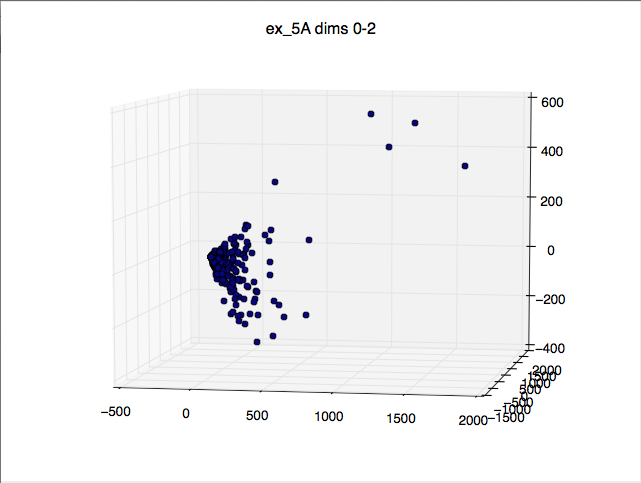
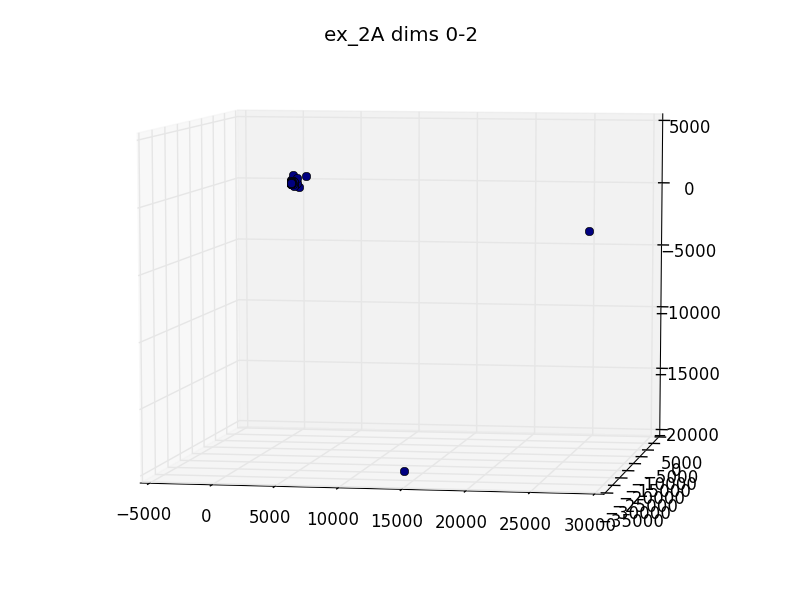
Updated all the example two images and made some bug fixes.

diff --git a/examples/example_two_centers_of_mass/action_centers_of_mass.py b/examples/example_two_centers_of_mass/action_centers_of_mass.py
@@ -1,23 +1,23 @@
-# **************************************************
-# Tutorial Five: Centers of Mass and Random Sampling
-# **************************************************
+# *******************************************************
+# ACTION Example Two: Centers of Mass and Random Sampling
+# *******************************************************
 
 
 from action import *
-import bregman.segment as bseg
+import action.segment as aseg
 import numpy as np
 
-# 5A: plot random sampling of points from one film
-def ex_5A(title):
+# 2A: plot random sampling of points from one film
+def ex_2A(title):
 	
 	ad = actiondata.ActionData()
-	av = actiondata.ActionView(None)
+	av = actiondata.ActionView()
 	oflow = opticalflow.OpticalFlow(title)
 	
 	length = oflow.determine_movie_length() # in seconds
 	length_in_frames = length * 4
 	
-	full_segment = bseg.Segment(0, duration=length)
+	full_segment = aseg.Segment(0, duration=length)
 	oflow_full_film = oflow.opticalflow_for_segment(full_segment)
 	
 	decomposed = ad.calculate_pca_and_fit(oflow_full_film, locut=100.0)
@@ -25,19 +25,20 @@ def ex_5A(title):
 	index_array = np.arange(decomposed.shape[0])
 	np.random.shuffle(index_array)
 	
-	# try removing the sorting step
+	# take the 10th root to better visualize the data
+	decomposed = np.power(decomposed, 0.1)
 	random_samples = decomposed[ np.sort(index_array[:500]) ]
 	
-	av.plot_clusters(random_samples, np.zeros(500), ttl='ex_5A dims 0-2')
-	av.plot_clusters(random_samples[:,1:], np.zeros(500), ttl='ex_5A dims 1-3')
+	av.plot_clusters(random_samples, np.zeros(500), ttl='ex_2A dims 0-2')
+	av.plot_clusters(random_samples[:,1:], np.zeros(500), ttl='ex_2A dims 1-3')
 
 
-# 5B: plot random sampling of points from multiple films
-def ex_5B(titles):
+# 2B: plot random sampling of points from multiple films
+def ex_2B(titles):
 	
 	ad = actiondata.ActionData()
-	av = actiondata.ActionView(None)
-	combo_oflow = np.zeros(128, dtype='float32')
+	av = actiondata.ActionView()
+	combo_oflow = np.zeros(512, dtype='float32')
 	
 	for title in titles:
 		
@@ -46,12 +47,10 @@ def ex_5B(titles):
 		length = oflow.determine_movie_length() # in seconds
 		length_in_frames = length * 4
 	
-		full_segment = bseg.Segment(0, duration=length)
-		oflow_full_film = oflow.opticalflow_for_segment(full_segment)
-
-		index_array = np.arange(oflow_full_film.shape[0])
-		np.random.shuffle(index_array)
-		random_samples = oflow_full_film[ np.sort(index_array[:500]) ]
+		full_segment = aseg.Segment(0, duration=length)
+		oflow_full_film_strided = oflow.opticalflow_for_segment_with_stride(full_segment)
+		
+		random_samples, order = ad.sample_n_frames(oflow_full_film_strided, 500)
 		print combo_oflow.shape
 		print random_samples.shape
 		combo_oflow = np.append(np.atleast_2d(combo_oflow), random_samples, axis=0)
@@ -59,14 +58,15 @@ def ex_5B(titles):
 	# get rid of the empty first row
 	combo_oflow = combo_oflow[1:,:]
 
-	decomposed = ad.calculate_pca_and_fit(combo_oflow, locut=10.0)
+	decomposed = ad.calculate_pca_and_fit(combo_oflow, locut=100.0)
+	decomposed = np.power(decomposed, 0.1)
 	# 500 labels per title
 	labels = np.array([i/500 for i in range(500 * len(titles))])
-	av.plot_clusters(decomposed, labels, ttl='ex_5B dims 0-2')
-	av.plot_clusters(decomposed[:,1:], labels, ttl='ex_5B dims 1-3')
+	av.plot_clusters(decomposed, labels, ttl='ex_2B dims 0-2')
+	av.plot_clusters(decomposed[:,1:], labels, ttl='ex_2B dims 1-3')
 
-# 5C: plot center of mass of one film
-def ex_5C(title):
+# 2C: plot center of mass of one film
+def ex_2C(title):
 	
 	av = actiondata.ActionView(None)
 	oflow = opticalflow.OpticalFlow(title)
@@ -74,19 +74,19 @@ def ex_5C(title):
 	length = oflow.determine_movie_length() # in seconds
 	length_in_frames = length * 4
 	
-	full_segment = bseg.Segment(0, duration=length)
-	oflow_full_film = oflow.opticalflow_for_segment(full_segment)
+	full_segment = aseg.Segment(0, duration=length)
+	oflow_full_film = oflow.opticalflow_for_segment_with_stride(full_segment)
 
-	center_of_mass = np.mean(oflow_full_film, axis=0)
+	center_of_mass = np.mean(np.power(oflow_full_film, 0.1), axis=0)
 	
-	av.plot_clusters(np.atleast_2d(center_of_mass), np.array([0]), ttl='ex_5A')
+	av.plot_clusters(np.atleast_2d(center_of_mass), np.array([0]), ttl='ex_2C')
 	
 
-# 5D: plot centers of mass of multiple films
-def ex_5D(titles):
+# 2D: plot centers of mass of multiple films
+def ex_2D(titles):
 	
 	av = actiondata.ActionView(None)
-	combo_oflow = np.zeros(128, dtype='float32')
+	combo_oflow = np.zeros(512, dtype='float32')
 	
 	for title in titles:
 		oflow = opticalflow.OpticalFlow(title)
@@ -94,10 +94,10 @@ def ex_5D(titles):
 		length = oflow.determine_movie_length() # in seconds
 		length_in_frames = length * 4
 		
-		full_segment = bseg.Segment(0, duration=length)
-		oflow_full_film = oflow.opticalflow_for_segment(full_segment)
+		full_segment = aseg.Segment(0, duration=length)
+		oflow_full_film = oflow.opticalflow_for_segment_with_stride(full_segment)
 				
-		oflow_COM = np.mean(oflow_full_film, axis=0)
+		oflow_COM = np.mean(np.power(oflow_full_film, 0.1), axis=0)
 		print combo_oflow.shape
 		print oflow_COM.shape
 		combo_oflow = np.append(np.atleast_2d(combo_oflow), np.atleast_2d(oflow_COM), axis=0)
@@ -105,17 +105,17 @@ def ex_5D(titles):
 	combo_oflow = combo_oflow[1:,:] # get rid of row of 0's
 	
 	# plot once
-	av.plot_clusters(np.atleast_2d(combo_oflow)[:,1:], np.array([i for i in range(len(titles))]), ttl='ex_5D: multiple Hitchcock films, centroids')
+	av.plot_clusters(np.atleast_2d(combo_oflow)[:,1:], np.array([i for i in range(len(titles))]), ttl='ex_2D: multiple Hitchcock films, centroids')
 
 
 if __name__ == "__main__":
 	title = 'North_by_Northwest'
-	titles = ['North_by_Northwest', 'Psycho', 'Rear_Window', 'Vertigo']
+	titles = ['North_by_Northwest', 'Psycho', 'Rope', 'Vertigo']
 	
- 	F5A = ex_5A(title)
- 	F5B = ex_5B(titles)
-	F5C = ex_5C(title)
-	F5D = ex_5D(titles)
+ 	F2A = ex_2A(title)
+ 	F2B = ex_2B(titles)
+	F2C = ex_2C(title)
+	F2D = ex_2D(titles)
 	
 	try:
 		choice = str(input('Press enter to exit visualization...'))

diff --git a/action/spdocs/example_two_centers_of_mass.rst b/action/spdocs/example_two_centers_of_mass.rst
@@ -5,7 +5,7 @@ Example Two: Centers of Mass and Random Sampling
 Abstract
 ========
 
-This example demonstrates the plotting of points and centers of masses of points from multiple films. A set number of points are randomly sampled from each example film. In this tutorial, we will use optical flow histogram data.
+This example demonstrates the plotting of points and centers of masses of points from multiple films. A set number of points are randomly sampled from each example film. In this tutorial, we will use phase correlation data.
 
 Prerequisites
 =============
@@ -19,21 +19,21 @@ Randomly sampled points from a film
 Get the data
 ------------
 
-These are the usual includes for working with ACTION data. For this example, we will use optical flow data. There is only one way to access optical flow data (no gridding choices).
+These are the usual includes for working with ACTION data. For this example, we will use optical flow data. There is only one way to access optical flow data (no gridding choices). Also recall that the optical flow class collects data at the full frame rate, so we will want to extract "strided" data.
 
 .. code-block:: python
 
 	from action import *
-	import bregman.segment as bseg
+	import action.segment as aseg
 	import numpy as np
 
-	oflow = opticalflow24.OpticalFlow24('North_by_Northwest')
+	oflow = opticalflow.OpticalFlow('North_by_Northwest')
 
 	length = oflow.determine_movie_length() # in seconds
 	length_in_frames = length * 4
 
-	full_segment = bseg.Segment(0, duration=length)
-	oflow_full_film = oflow.opticalflow_for_segment(full_segment)
+	full_segment = aseg.Segment(0, duration=length)
+	oflow_full_film = oflow.opticalflow_for_segment_with_stride(full_segment) # default stride is 6 frames
 	print oflow_full_film.shape == (length_in_frames, 512) # should be True
 
 Perform PCA and cluster
@@ -54,6 +54,12 @@ Now we randomly sample 500 points from the entire film's data set. We use Numpy'
 	np.random.shuffle(index_array)
 	random_samples = decomposed[ np.sort(index_array[:500]) ]
 	
+The following is a wrapper function in ``actiondata'' that will do the same thing:
+.. code-block:: python
+
+	random_samples_2, ordering= sample_n_frames(decomposed, n=500, sort_flag=True)
+	random_samples.shape == random_samples_2.shape # should be True
+	
 Plot the clusters
 -----------------
 
@@ -61,9 +67,9 @@ Finally, we plot the clusters to visualize a representative sample of the film.
 
 .. code-block:: python
 
-	av = actiondata.ActionView(None)
-	av.plot_clusters(random_samples, np.zeros(500), ttl='ex_5A')
-	av.plot_clusters(random_samples[:, np.zeros(500), ttl='ex_5A')
+	av = actiondata.ActionView()
+	av.plot_clusters(random_samples, np.zeros(500), ttl='ex_2A dims 0-2')
+	av.plot_clusters(random_samples[:,1:], np.zeros(500), ttl='ex_2A dims 1-3')
 
 Here's the output. The plot of the lowest three dimensions is rotated to show a more interesting view. The graph of the segments suggested by hierarchical clustering is not very good when viewing a whole film. However, you can zoom into the image using the interactive controls in the viewer when you run this code and explore the data close up.
 
@@ -91,9 +97,9 @@ When dealing with multiple films, we iterate and concatenate the resulting 500 p
 		length_in_frames = length * 4
 
 		full_segment = bseg.Segment(0, duration=length)
-		oflow_full_film = oflow.opticalflow_for_segment_with_stride(full_segment, 6)
+		oflow_full_film = oflow.opticalflow_for_segment_with_stride(full_segment)
 
-		random_samples = ad.sample_n_frames(oflow_full_film, num_samples_per_film)[0]
+		random_samples, ordering = ad.sample_n_frames(oflow_full_film, num_samples_per_film)
 	
 		combo_oflow = np.append(np.atleast_2d(combo_oflow), np.atleast_2d(random_samples), axis=0)
 
@@ -122,17 +128,17 @@ In a similar manner, the centers of mass of each movie's points can be graphed i
 
 .. code-block:: python
 
-	av = actiondata.ActionView(None)
-	combo_oflow = np.array(np.zeros(512), dtype='int32')
+	av = actiondata.ActionView()
+	combo_oflow = np.array(np.zeros(512), dtype='float32')
 	
 	for title in titles:
-		oflow = opticalflow24.OpticalFlow24(title)
+		oflow = opticalflow.OpticalFlow(title)
 		
 		length = oflow.determine_movie_length() # in seconds
 		length_in_frames = length * 4
 		
-		full_segment = bseg.Segment(0, duration=length)
-		oflow_full_film = oflow.opticalflow_for_segment_with_stride(full_segment, 6)
+		full_segment = aseg.Segment(0, duration=length)
+		oflow_full_film = oflow.opticalflow_for_segment_with_stride(full_segment)
 				
 		oflow_COM = np.mean(oflow_full_film, axis=0)
 		combo_oflow = np.append(np.atleast_2d(combo_oflow), np.atleast_2d(oflow_COM), axis=0)
@@ -141,7 +147,7 @@ In a similar manner, the centers of mass of each movie's points can be graphed i
 	combo_oflow = combo_oflow[1:,:]
 	
 	# plot once
-	av.plot_clusters(np.atleast_2d(combo_oflow)[:,1:], np.array([i for i in range(len(titles))]), ttl='ex_5D')
+	av.plot_clusters(np.atleast_2d(combo_oflow)[:,1:], np.array([i for i in range(len(titles))]), ttl='ex_2D')
 
 .. image:: /images/action_ex2_multiple_centroids.png
 
